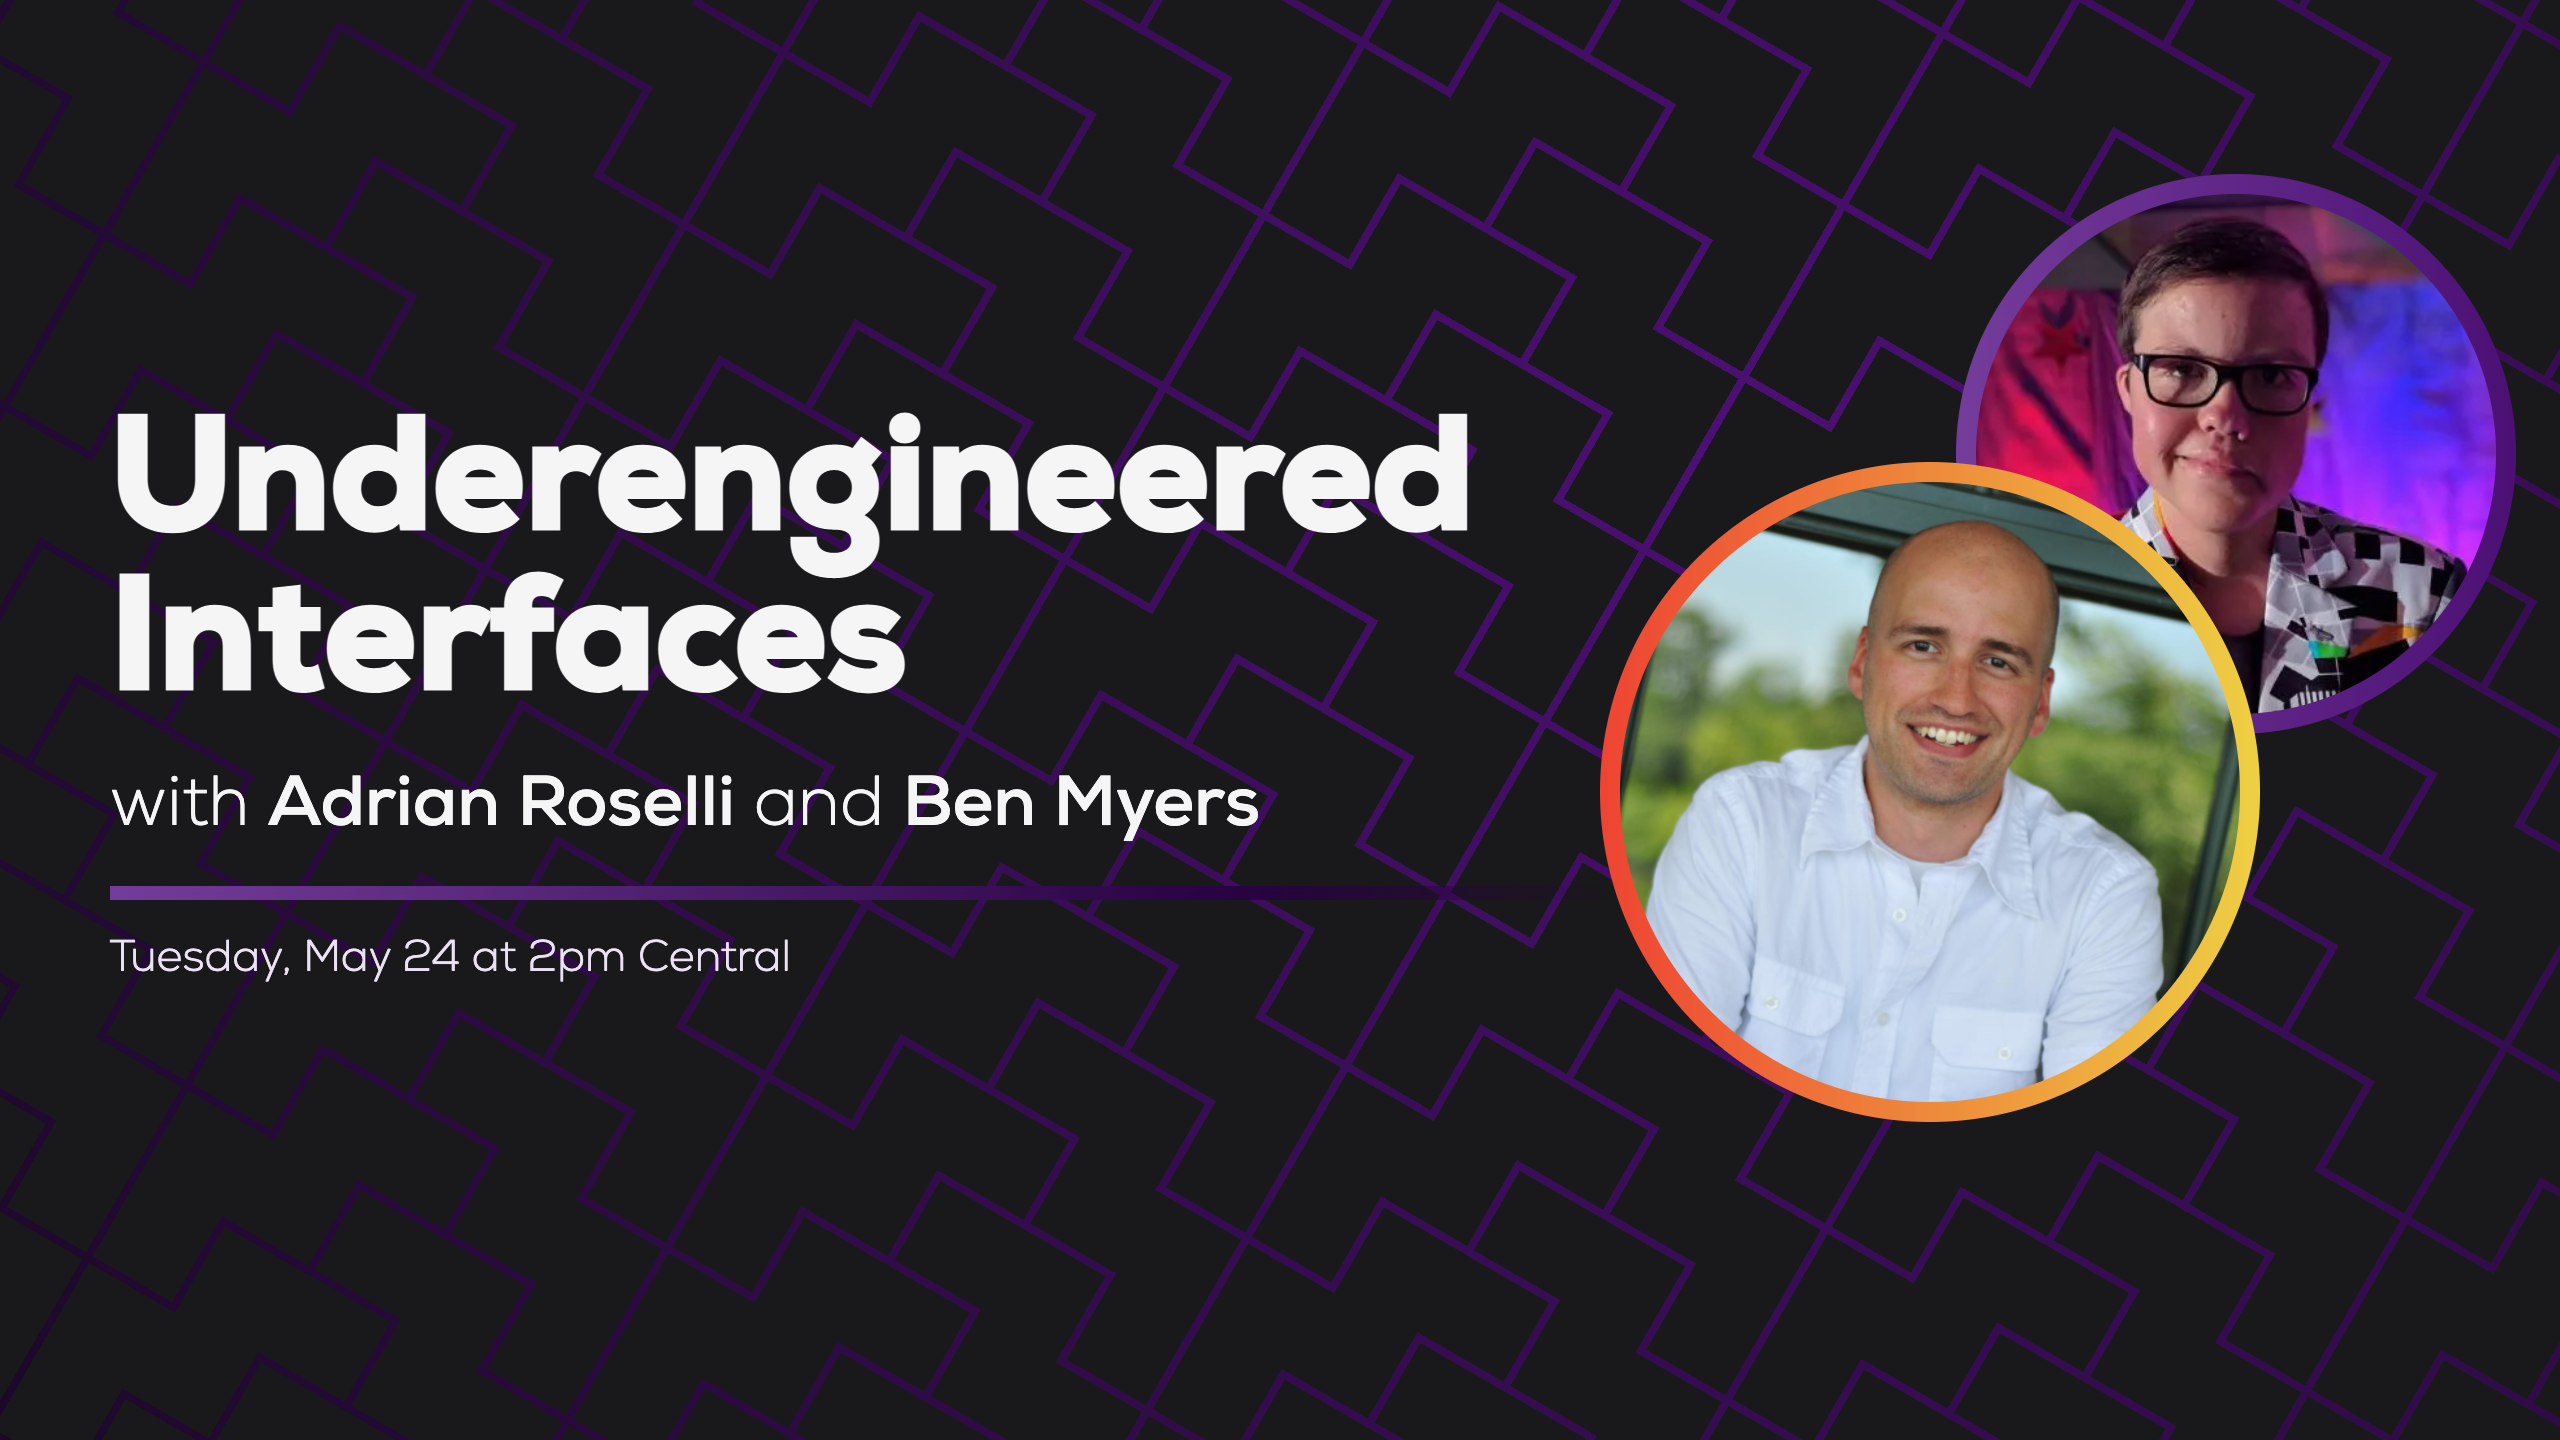
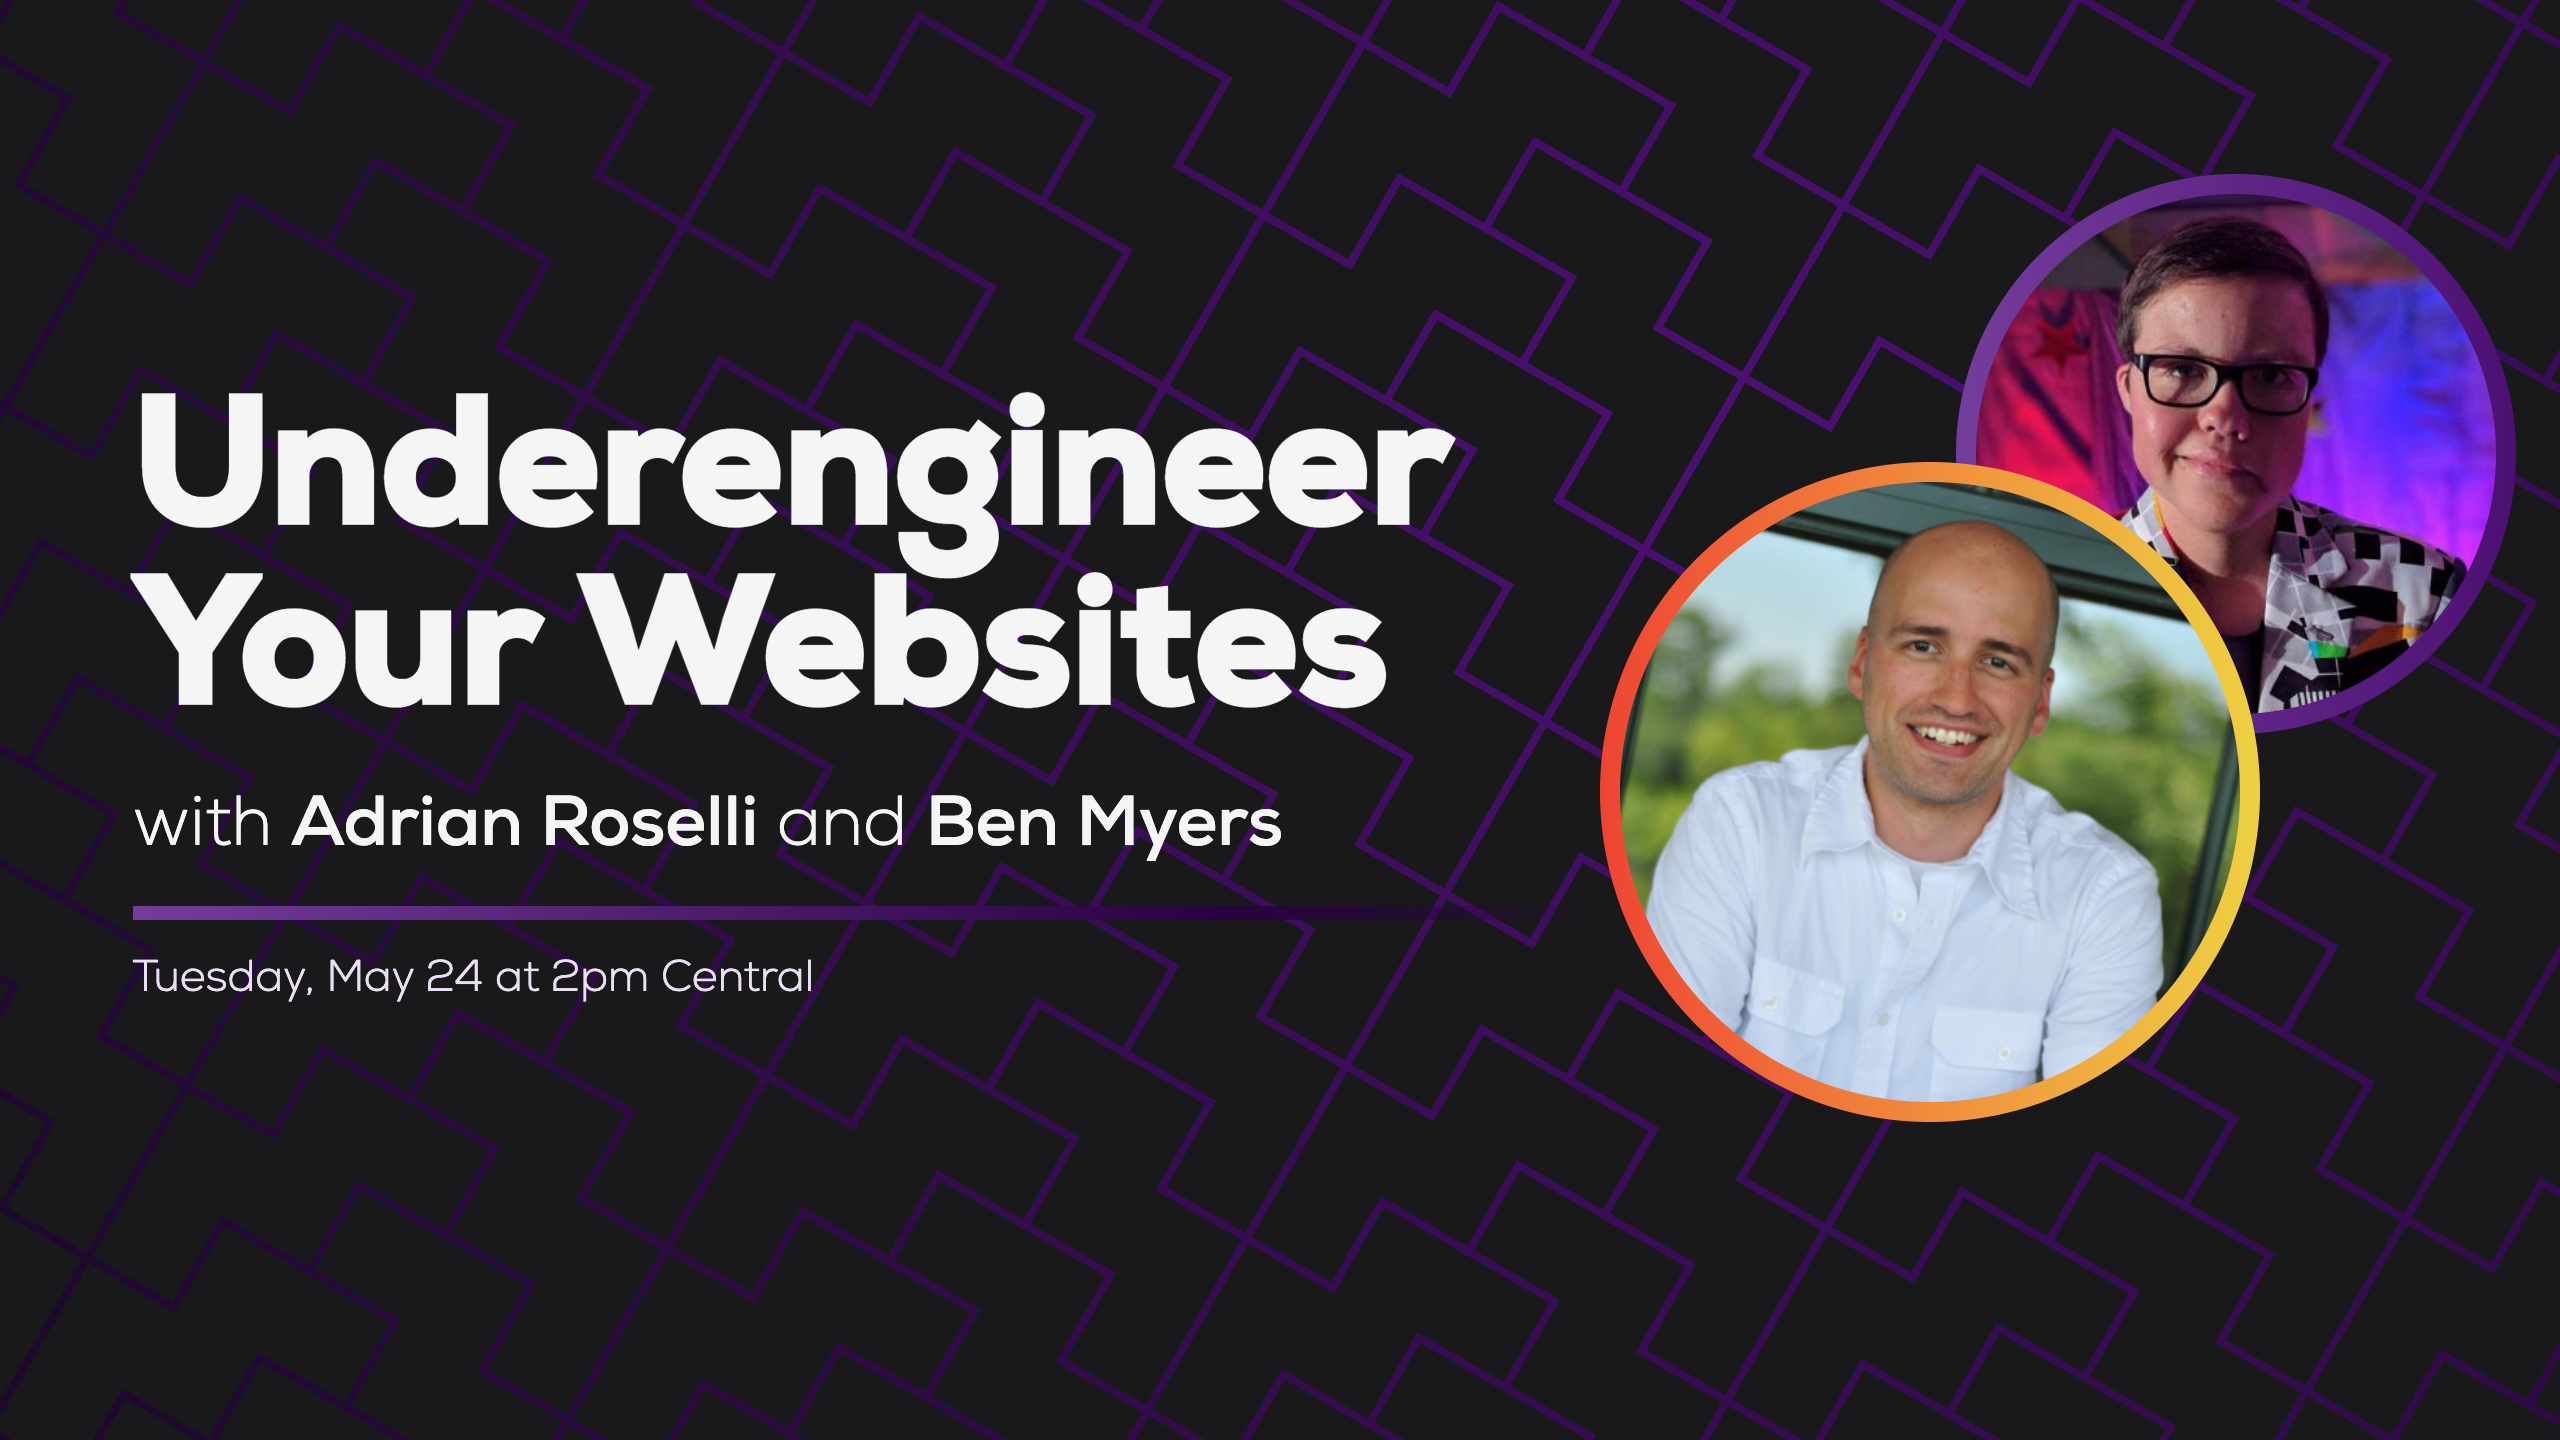
Retitle Underengineered stream

Changed region(s): [[0.0312, 0.2812, 0.5938, 0.5], [0.0312, 0.5312, 0.5312, 0.6875]]

diff --git a/src/thumbnail.html b/src/thumbnail.html
@@ -1,10 +1,10 @@
 ---
 host: Ben Myers
-guest: Varun Vachhar
-timestamp: 'Tuesday, June 21 at 2pm Central'
+guest: Adrian Roselli
+timestamp: 'Tuesday, May 24 at 2pm Central'
 title:
-  - Accessibility Testing
-  - with Storybook
+  - Underengineer
+  - Your Websites
 ---
 <!DOCTYPE html>
 <html lang="en">

diff --git a/src/streams/2022-05-24-underengineered.md b/src/streams/2022-05-24-underengineered.md
@@ -1,11 +1,12 @@
 ---
-title: Underengineered Interfaces with Adrian Roselli
-thumbnailTitle: Underengineered Interfaces
+title: Underengineer Your Websites with Adrian Roselli
+thumbnailTitle: Underengineer Your Websites
 hosts:
   - Ben Myers
   - Adrian Roselli
 tags:
   - Web Accessibility
+upload: https://www.twitch.tv/videos/1308093438
 ---
 
 Oftentimes, the most accessible, interoperable experiences are the ones that require the most minimal engineer — and few know that better than [Adrian Roselli](https://twitter.com/aardrian). In his “Under-Engineered” blogposts, Adrian goes over minimal, accessible, and interoperable solutions to common interface patterns. Join us for Some Antics as Adrian shows us how we can go about underengineering our own interfaces!

diff --git a/src/streams/2022-07-19-manuel.md b/src/streams/2022-07-19-manuel.md
@@ -1,0 +1,10 @@
+---
+title: Untitled Manuel Matuzović Stream with Manuel Matuzović
+thumbnailTitle: Untitled Manuel Matuzović Stream
+hosts:
+  - Ben Myers
+  - Manuel Matuzović
+timeOfDay: 12pm
+eleventyExcludeFromCollections: true
+permalink: false
+---
